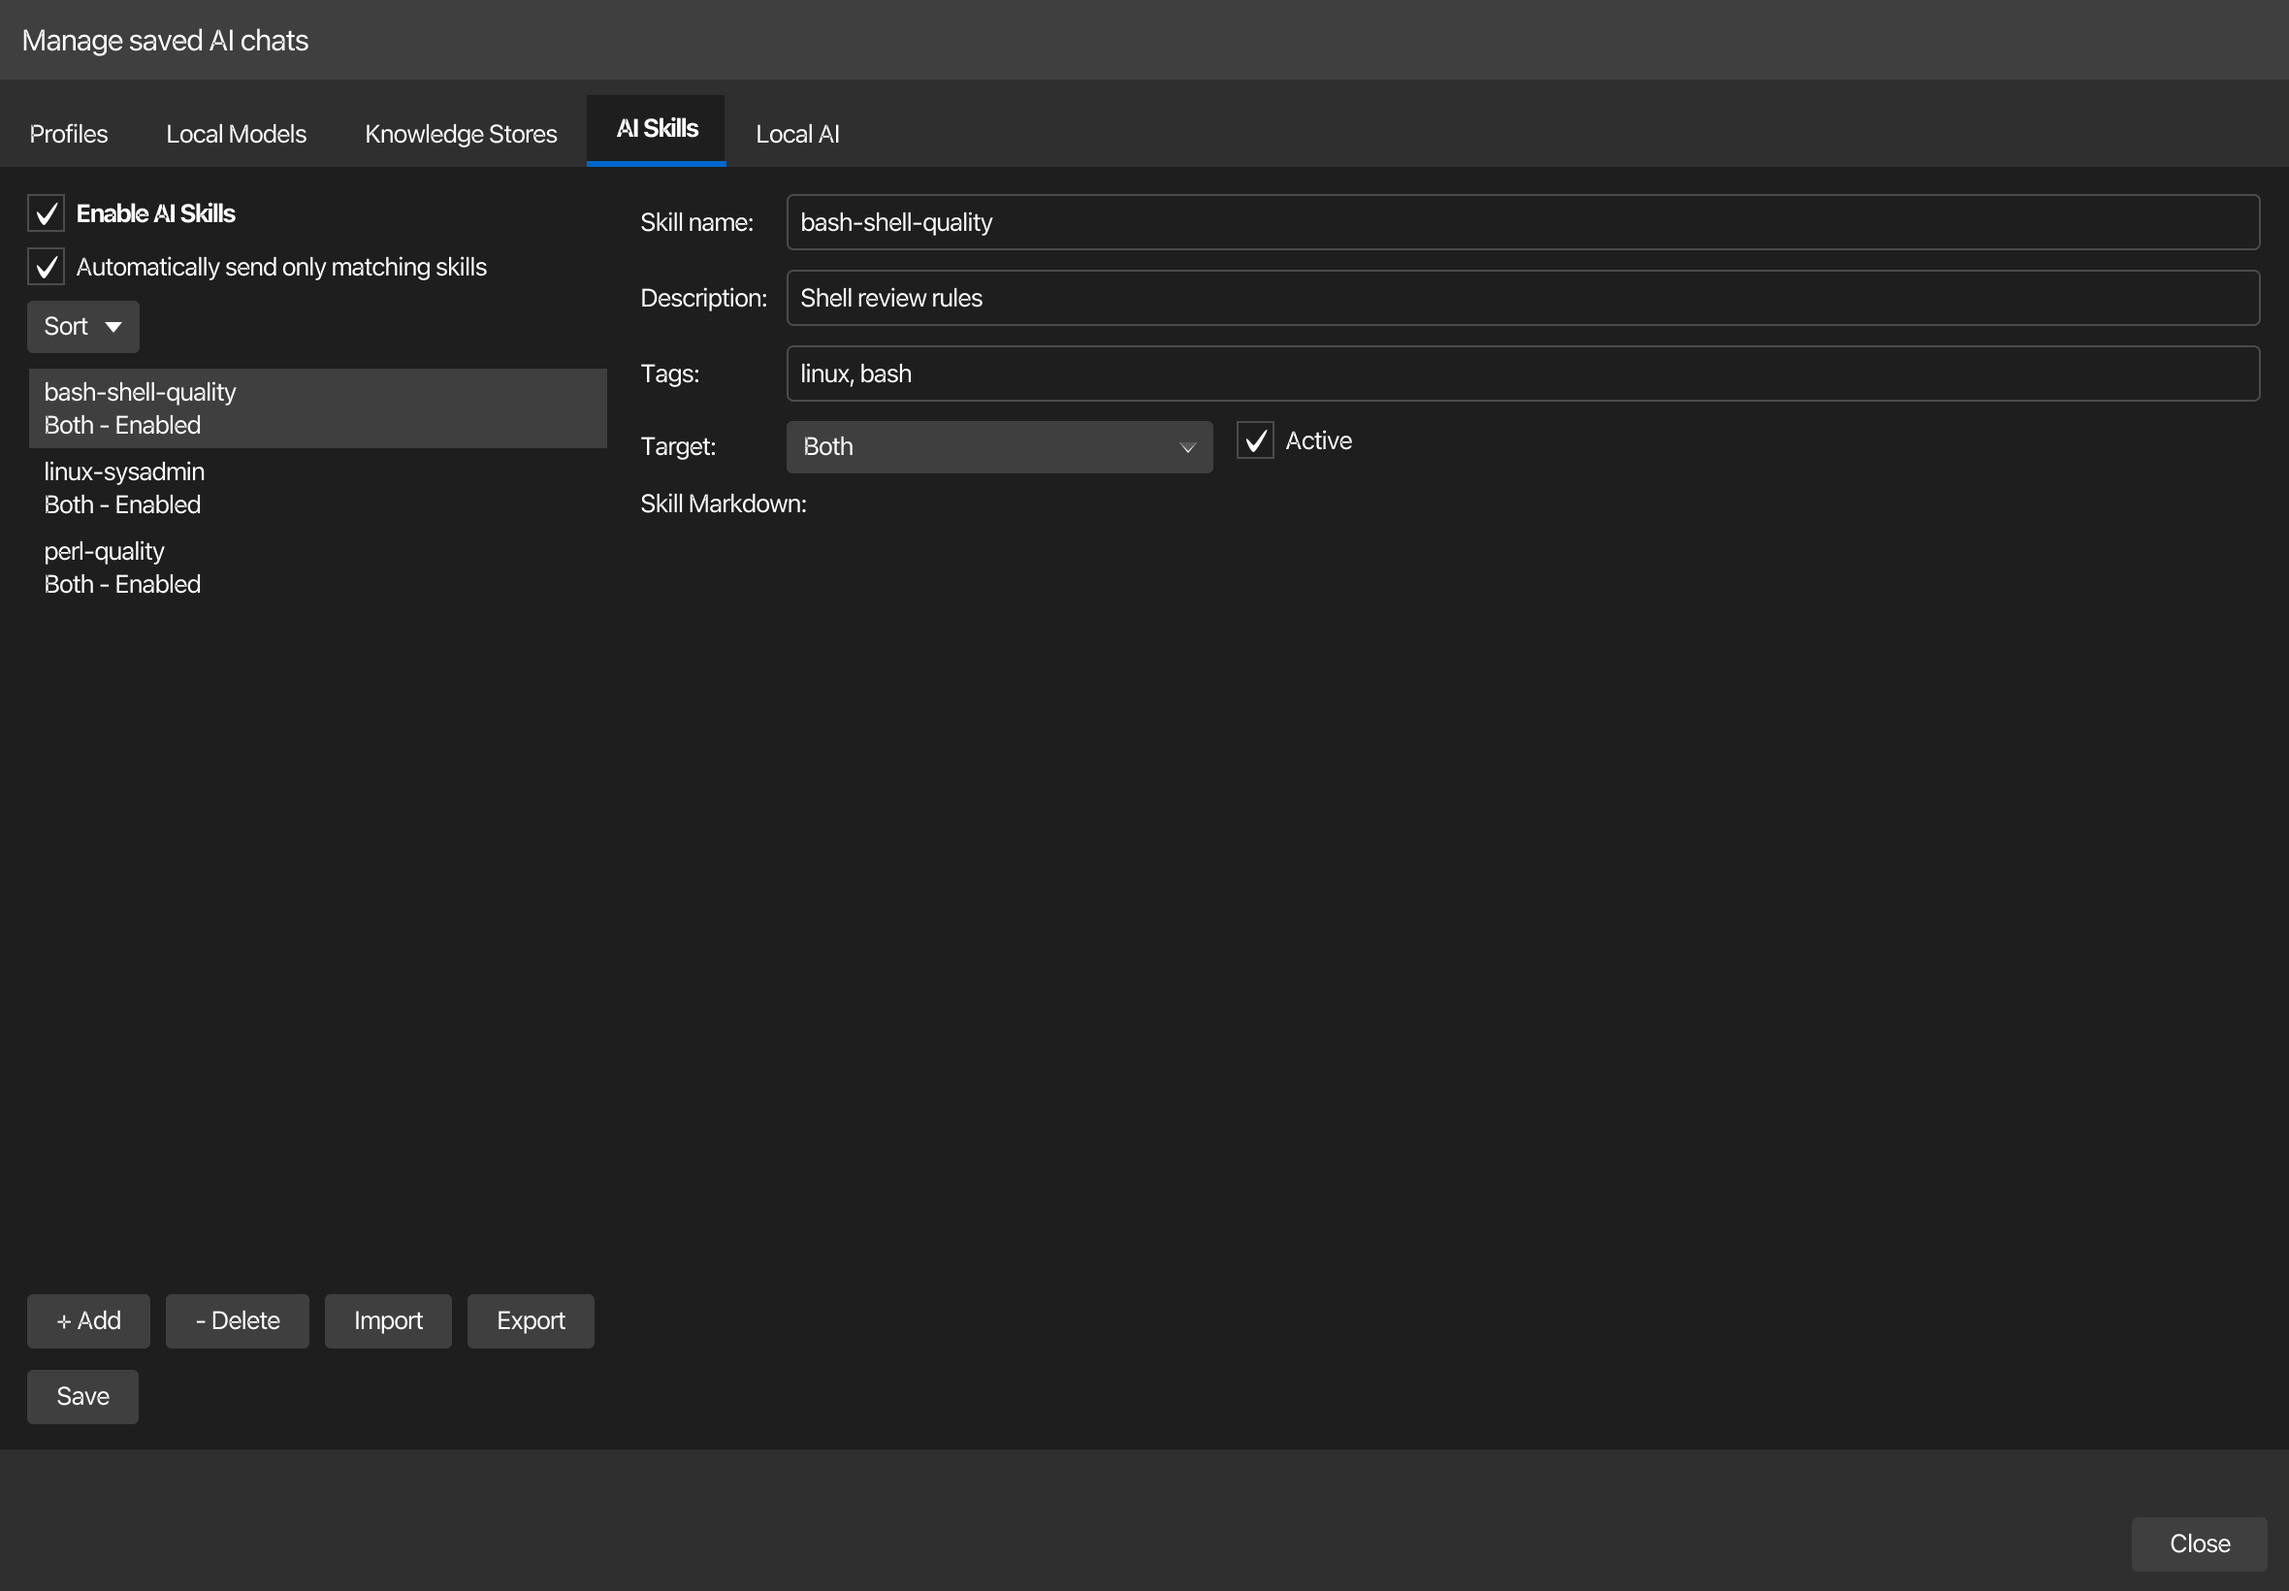
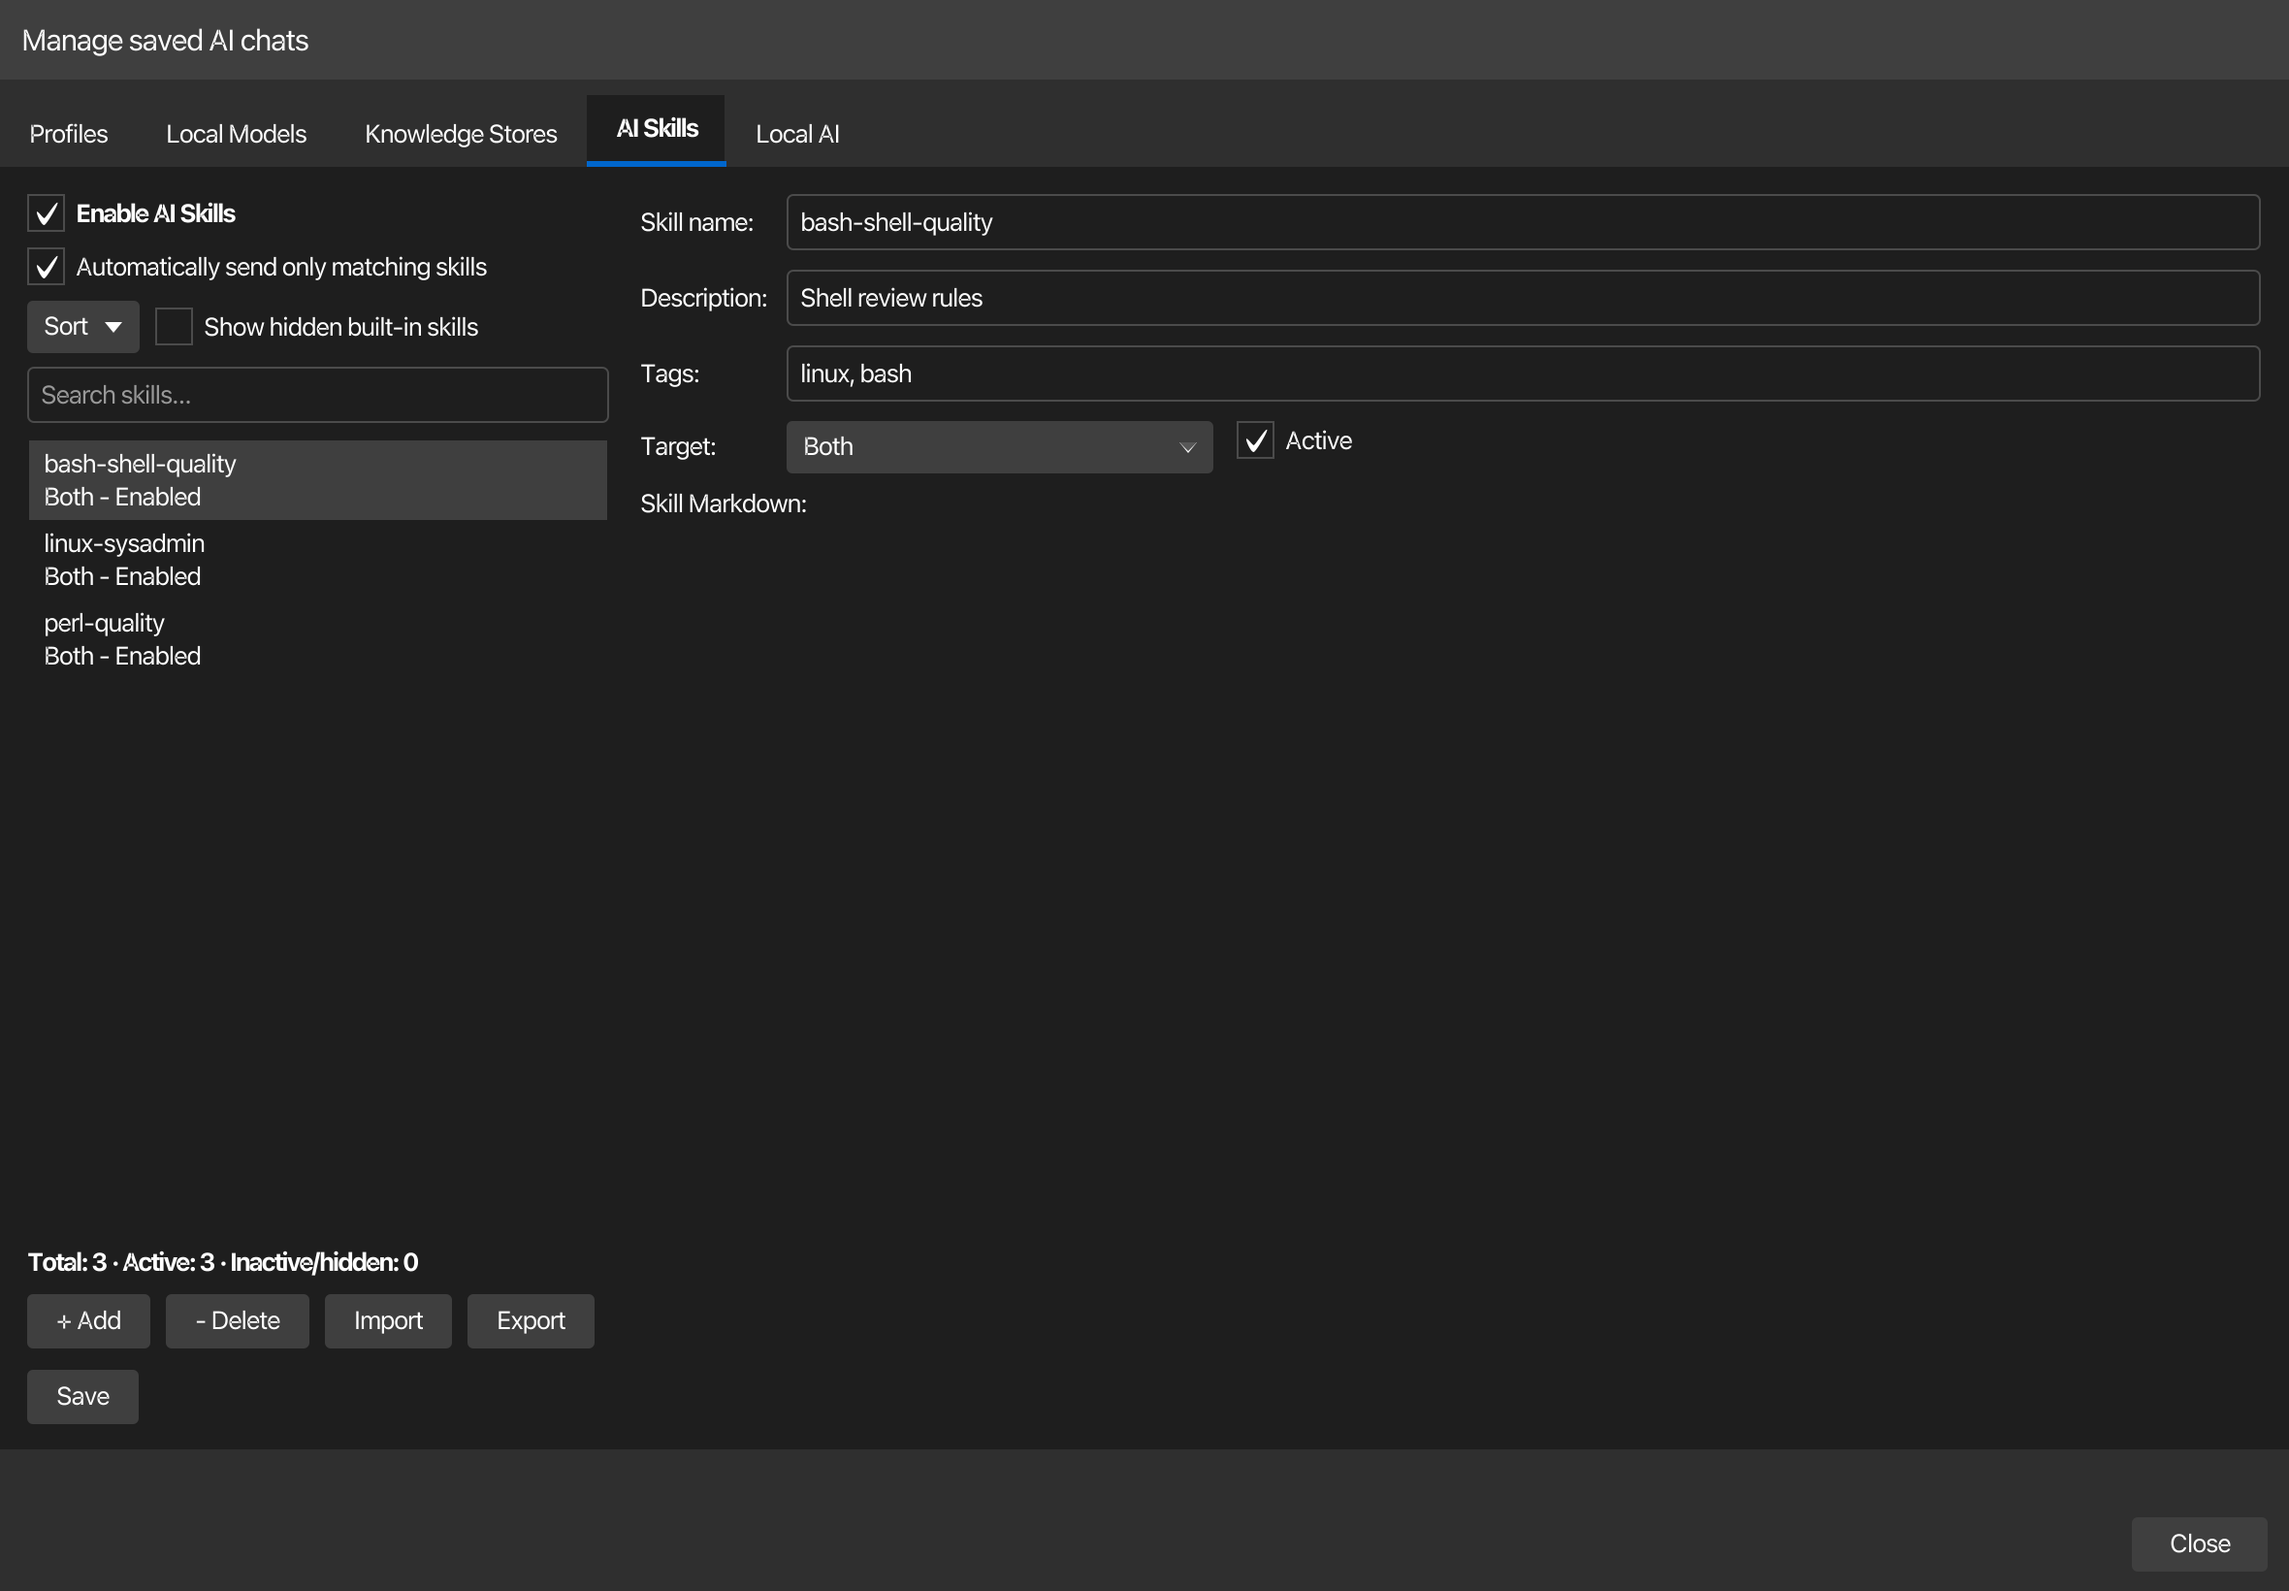
docs: regenerate the AI Skills tab screenshot
Renders the search field and the new total/active/inactive count summary.
The offscreen demo-skill injection bypassed every UI action that keeps the
count line in sync, so the generator now recomputes it once after loading
the demo skills.

Changed region(s): [[0.0, 0.1866, 0.2784, 0.4354], [0.0, 0.7774, 0.1856, 0.8085]]

diff --git a/src/test/java/de/kortty/ui/AiSkillsTabScreenshotGenerator.java b/src/test/java/de/kortty/ui/AiSkillsTabScreenshotGenerator.java
@@ -143,6 +143,10 @@ public final class AiSkillsTabScreenshotGenerator {
         ListView<AiSkill> listView = (ListView<AiSkill>) rawField(pane, "aiSkillListView");
         listView.getItems().setAll(skills);
         listView.getSelectionModel().selectFirst();
+
+        // The count summary is normally kept in sync by every mutating action; the demo list
+        // bypasses all of them via reflection, so recompute it once for an accurate capture.
+        invoke(pane, "updateAiSkillCounts");
     }
 
     private static AiSkill demoSkill(String name, String description, String tags) {
@@ -182,6 +186,12 @@ public final class AiSkillsTabScreenshotGenerator {
         Field field = target.getClass().getDeclaredField(name);
         field.setAccessible(true);
         return field.get(target);
+    }
+
+    private static void invoke(Object target, String methodName) throws Exception {
+        var method = target.getClass().getDeclaredMethod(methodName);
+        method.setAccessible(true);
+        method.invoke(target);
     }
 
     private static String stack(Throwable t) {
